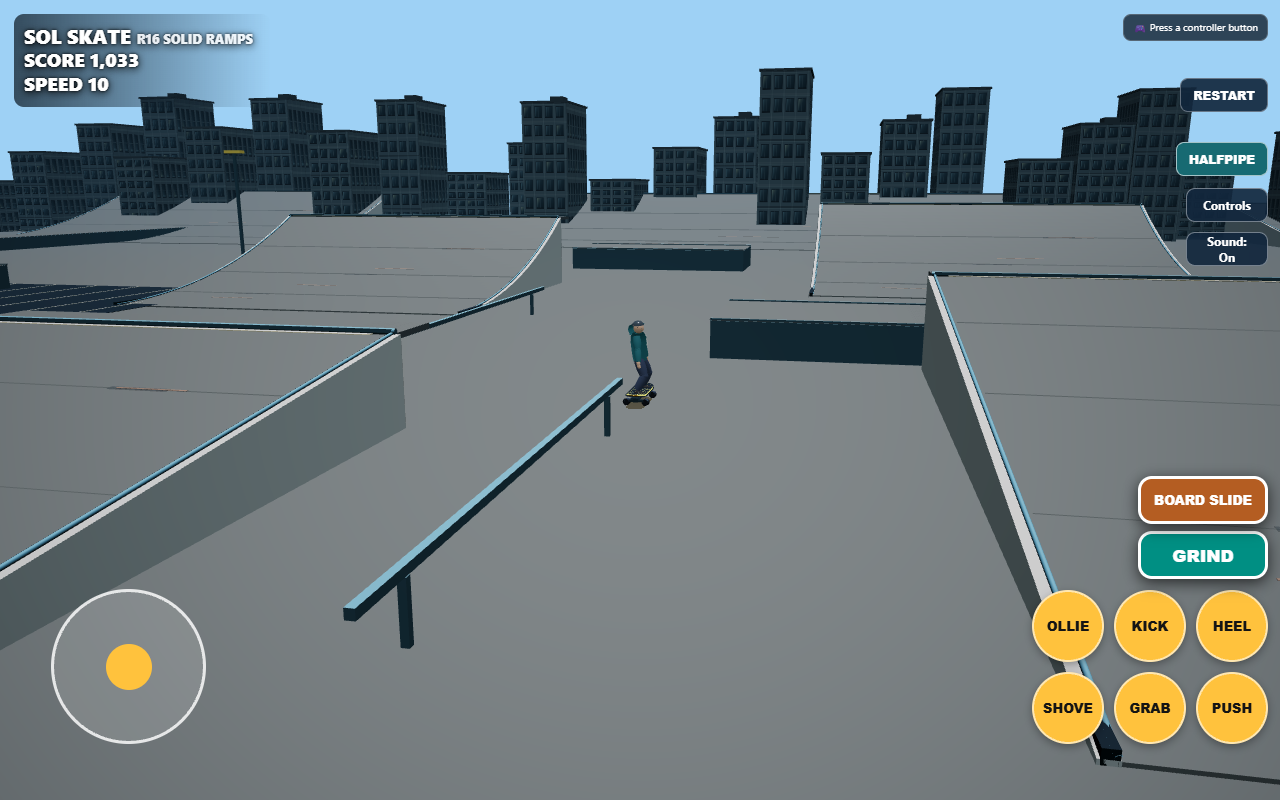
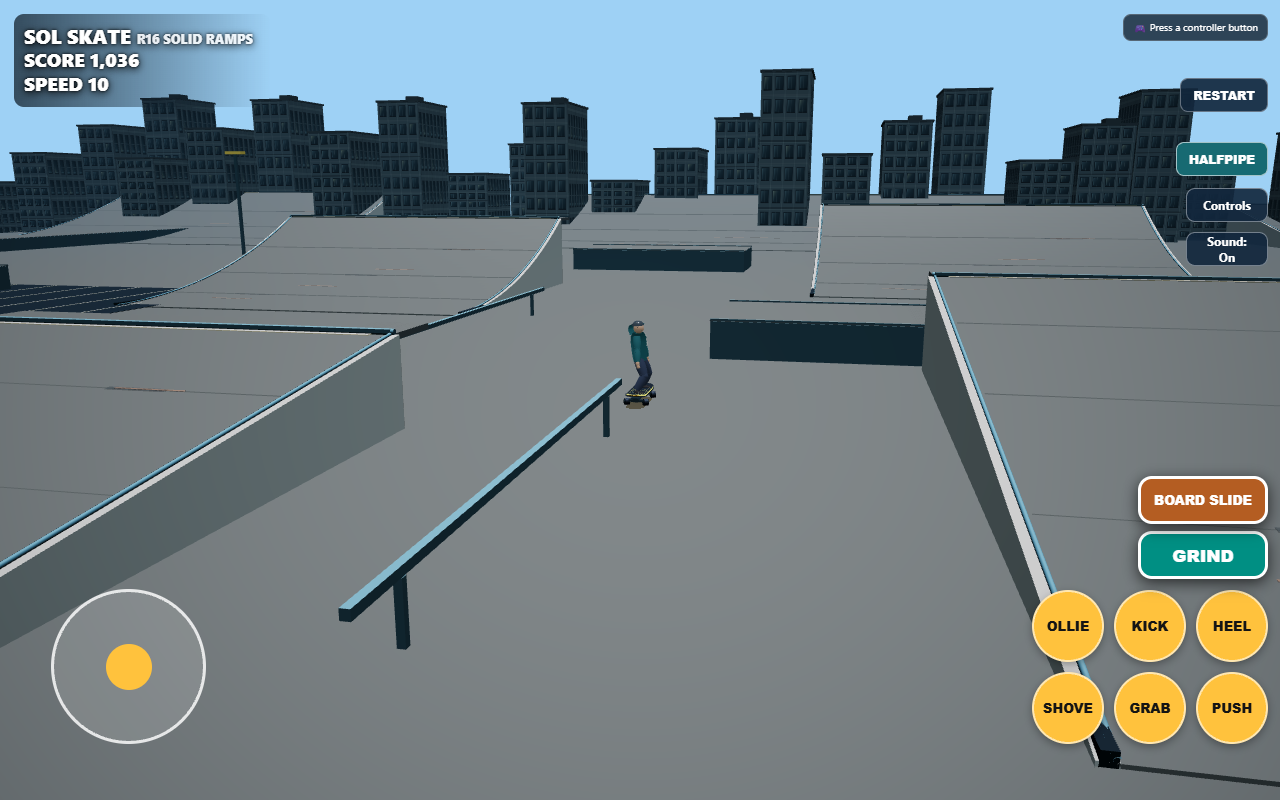
fix(audio): use millisecond cue deadlines

diff --git a/audio-feedback.js b/audio-feedback.js
@@ -11,8 +11,10 @@
   let helpOpen = false;
   let previousGrounded = null;
   let previousGrinding = false;
-  let nextWheelAt = 0;
-  let nextGrindAt = 0;
+  let nextWheelAtMs = 0;
+  let nextGrindAtMs = 0;
+  const grindEntryIntervalMs = 120;
+  const grindRepeatIntervalMs = 130;
 
   const style = document.createElement('link');
   style.rel = 'stylesheet';
@@ -119,7 +121,7 @@
     if (!context || !master || !canResume() || context.state !== 'running') return;
 
     const amount = Math.max(0, Math.min(1, intensity));
-    const now = context.currentTime;
+    const audioTimeSeconds = context.currentTime;
     const oscillator = context.createOscillator();
     const envelope = context.createGain();
     const sounds = {
@@ -132,20 +134,24 @@
     if (!sound) return;
 
     oscillator.type = sound.wave;
-    oscillator.frequency.setValueAtTime(sound.from + amount * 34, now);
-    oscillator.frequency.exponentialRampToValueAtTime(sound.to + amount * 22, now + sound.duration);
-    envelope.gain.setValueAtTime(0.0001, now);
-    envelope.gain.linearRampToValueAtTime(sound.volume * (0.65 + amount * 0.35), now + 0.012);
-    envelope.gain.exponentialRampToValueAtTime(0.0001, now + sound.duration);
+    oscillator.frequency.setValueAtTime(sound.from + amount * 34, audioTimeSeconds);
+    oscillator.frequency.exponentialRampToValueAtTime(sound.to + amount * 22, audioTimeSeconds + sound.duration);
+    envelope.gain.setValueAtTime(0.0001, audioTimeSeconds);
+    envelope.gain.linearRampToValueAtTime(sound.volume * (0.65 + amount * 0.35), audioTimeSeconds + 0.012);
+    envelope.gain.exponentialRampToValueAtTime(0.0001, audioTimeSeconds + sound.duration);
     oscillator.connect(envelope);
     envelope.connect(master);
-    oscillator.start(now);
-    oscillator.stop(now + sound.duration + 0.01);
+    oscillator.addEventListener('ended', () => {
+      oscillator.disconnect();
+      envelope.disconnect();
+    }, { once: true });
+    oscillator.start(audioTimeSeconds);
+    oscillator.stop(audioTimeSeconds + sound.duration + 0.01);
     events[type]++;
   }
 
   function updateGameplayAudio(state) {
-    const now = performance.now();
+    const nowMs = performance.now();
 
     if (previousGrounded === true && !state.grounded && state.name === 'OLLIE') {
       play('ollie', Math.min(1, Math.abs(state.speed) / 16));
@@ -155,17 +161,17 @@
     }
     if (!previousGrinding && state.grinding) {
       play('grind', Math.min(1, Math.abs(state.speed) / 16));
-      nextGrindAt = now + 0.12;
+      nextGrindAtMs = nowMs + grindEntryIntervalMs;
     }
 
-    if (state.grinding && now >= nextGrindAt) {
+    if (state.grinding && nowMs >= nextGrindAtMs) {
       play('grind', Math.min(1, Math.abs(state.speed) / 16));
-      nextGrindAt = now + 0.13;
-    } else if (state.grounded && !state.grinding && Math.abs(state.speed) > 1 && now >= nextWheelAt) {
+      nextGrindAtMs = nowMs + grindRepeatIntervalMs;
+    } else if (state.grounded && !state.grinding && Math.abs(state.speed) > 1 && nowMs >= nextWheelAtMs) {
       play('wheel', Math.min(1, Math.abs(state.speed) / 18));
-      nextWheelAt = now + Math.max(0.16, 0.32 - Math.min(0.16, Math.abs(state.speed) * 0.006));
+      nextWheelAtMs = nowMs + Math.max(160, 320 - Math.min(160, Math.abs(state.speed) * 6));
     } else if (!state.grounded || state.grinding) {
-      nextWheelAt = now + 0.12;
+      nextWheelAtMs = nowMs + grindEntryIntervalMs;
     }
 
     previousGrounded = !!state.grounded;

diff --git a/README.md b/README.md
@@ -62,4 +62,4 @@ The panel originated in Copilot PR #39. This integration applies only its help U
 
 The persistent, keyboard-focusable Sound toggle enables or mutes short procedural Web Audio cues for wheel roll, ollies, landings and grinds. Audio starts silent until a trusted browser gesture unlocks it; browsers that block or do not support Web Audio remain playable. The single AudioContext is suspended when the tab loses focus, becomes hidden, or Controls help opens, and resumes when the page is active again. No audio files or third-party audio libraries are used.
 
-Run `node tests/audio_feedback_browser.cjs` to verify startup silence, saved mute preference, context reuse, gameplay cues, focus/help/visibility suspension and resume, and toggle layout in Chromium desktop, mobile portrait and mobile landscape. The hidden-page transition is simulated with the browser visibility event because headless Chromium does not reliably background tabs. This validates browser audio scheduling, not subjective sound quality or physical-device speakers.
+Run `node tests/audio_feedback_rate.cjs` to verify wheel/grind cue deadlines deterministically at 30, 60 and 120 FPS and confirm ended oscillators and envelopes disconnect. Run `node tests/audio_feedback_browser.cjs` to verify startup silence, saved mute preference, context reuse, gameplay cues, focus/help/visibility suspension and resume, and toggle layout in Chromium desktop, mobile portrait and mobile landscape. The hidden-page transition is simulated with the browser visibility event because headless Chromium does not reliably background tabs. These validate browser audio scheduling, not subjective sound quality or physical-device speakers.
